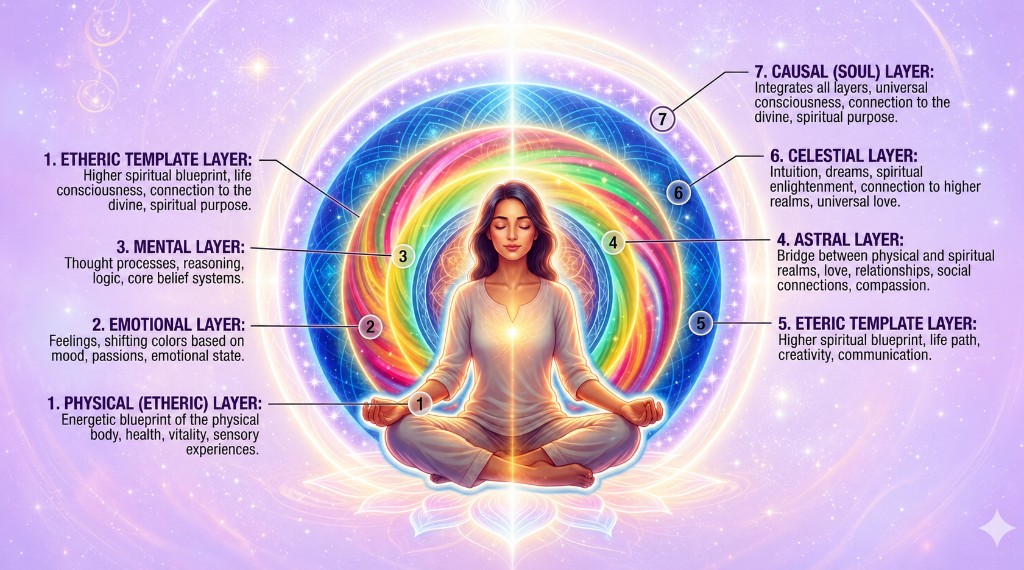
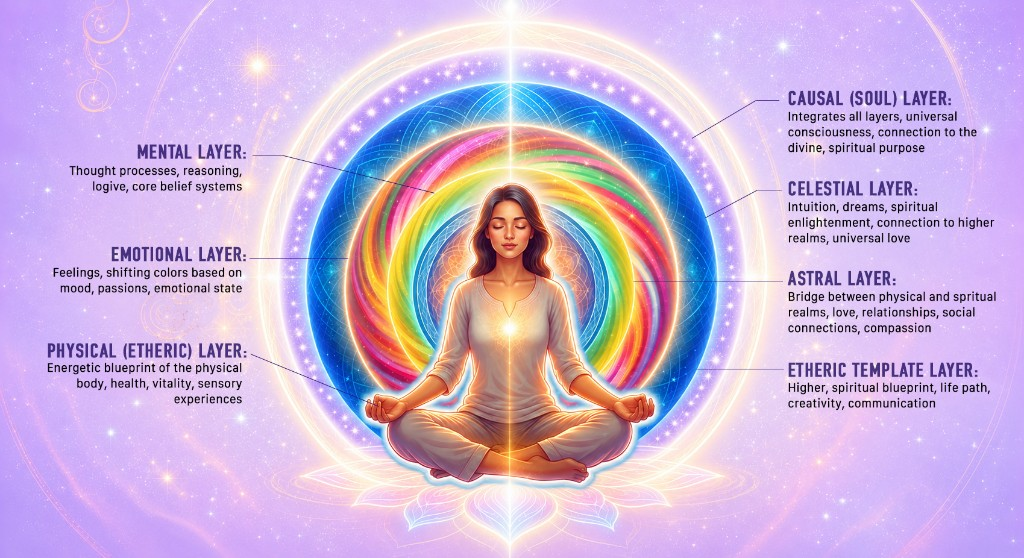
Course material intro to reiki images fix.

diff --git a/src/app/globals.css b/src/app/globals.css
@@ -4314,15 +4314,23 @@ a.contact-detail:hover {
 
 .testimonial-carousel-dots {
   display: flex;
-  flex-wrap: wrap;
+  flex-wrap: nowrap;
+  flex: 1 1 auto;
   align-items: center;
   justify-content: center;
   gap: 0.4rem;
-  max-width: min(100%, 18rem);
+  min-width: 0;
+  overflow-x: auto;
+  scrollbar-width: none;
+}
+
+.testimonial-carousel-dots::-webkit-scrollbar {
+  display: none;
 }
 
 .testimonial-carousel-dot {
   position: relative;
+  flex: 0 0 auto;
   overflow: hidden;
   width: 0.55rem;
   height: 0.55rem;
@@ -7921,11 +7929,11 @@ html[data-brand-theme="10"] section[aria-label="Hero highlights"] [role="tablist
 
 .cm-slide-story {
   display: grid;
-  grid-template-columns: minmax(0, 1.1fr) minmax(16rem, 0.9fr);
+  grid-template-columns: minmax(0, 1fr) minmax(20rem, 1.15fr);
   gap: clamp(1.25rem, 3vw, 2.5rem);
   align-items: center;
   width: 100%;
-  max-width: 74rem;
+  max-width: 78rem;
   margin-inline: auto;
   text-align: left;
 }
@@ -7961,7 +7969,7 @@ html[data-brand-theme="10"] section[aria-label="Hero highlights"] [role="tablist
 }
 
 .cm-story-portrait {
-  width: min(100%, 24rem);
+  width: min(100%, 34rem);
   overflow: hidden;
   border-radius: 1.35rem;
   background: #d9d2df;
@@ -8001,7 +8009,7 @@ html[data-brand-theme="10"] section[aria-label="Hero highlights"] [role="tablist
   }
 
   .cm-story-portrait {
-    width: min(100%, 18rem);
+    width: min(100%, 26rem);
   }
 }
 
@@ -10083,13 +10091,22 @@ html[data-brand-theme="10"] section[aria-label="Hero highlights"] [role="tablist
 
 .cm-presenter-dots {
   display: flex;
-  flex-wrap: wrap;
+  flex-wrap: nowrap;
+  flex: 1 1 auto;
+  align-items: center;
   justify-content: center;
   gap: 0.4rem;
-  max-width: 16rem;
+  min-width: 0;
+  overflow-x: auto;
+  scrollbar-width: none;
+}
+
+.cm-presenter-dots::-webkit-scrollbar {
+  display: none;
 }
 
 .cm-presenter-dot {
+  flex: 0 0 auto;
   width: 0.5rem;
   height: 0.5rem;
   border: 0;

diff --git a/src/lib/admin/course-material.ts b/src/lib/admin/course-material.ts
@@ -368,7 +368,7 @@ export const introductionToReiki: CourseMaterialDeck = {
       },
       image: {
         src: "/course-material/introduction-to-reiki/when-blocked-original.png",
-        alt: "Life force energy flowing through living beings",
+        alt: "When energy is unblocked, we experience joy, peace, vitality, and wellness",
         width: 1024,
         height: 554,
       },
@@ -523,9 +523,9 @@ export const introductionToReiki: CourseMaterialDeck = {
         "An aura consists of seven distinct layers, often called auric bodies. Extending outward from your body, each layer corresponds to a different aspect of your physical, emotional, or spiritual well-being, getting less dense and vibrating at higher frequencies the further out they go.",
       image: {
         src: "/course-material/introduction-to-reiki/aura-seven-layers.png",
-        alt: "Meditating figure surrounded by seven glowing aura layers",
+        alt: "Meditating figure surrounded by seven labeled aura layers",
         width: 1024,
-        height: 570,
+        height: 558,
       },
     },
     {
